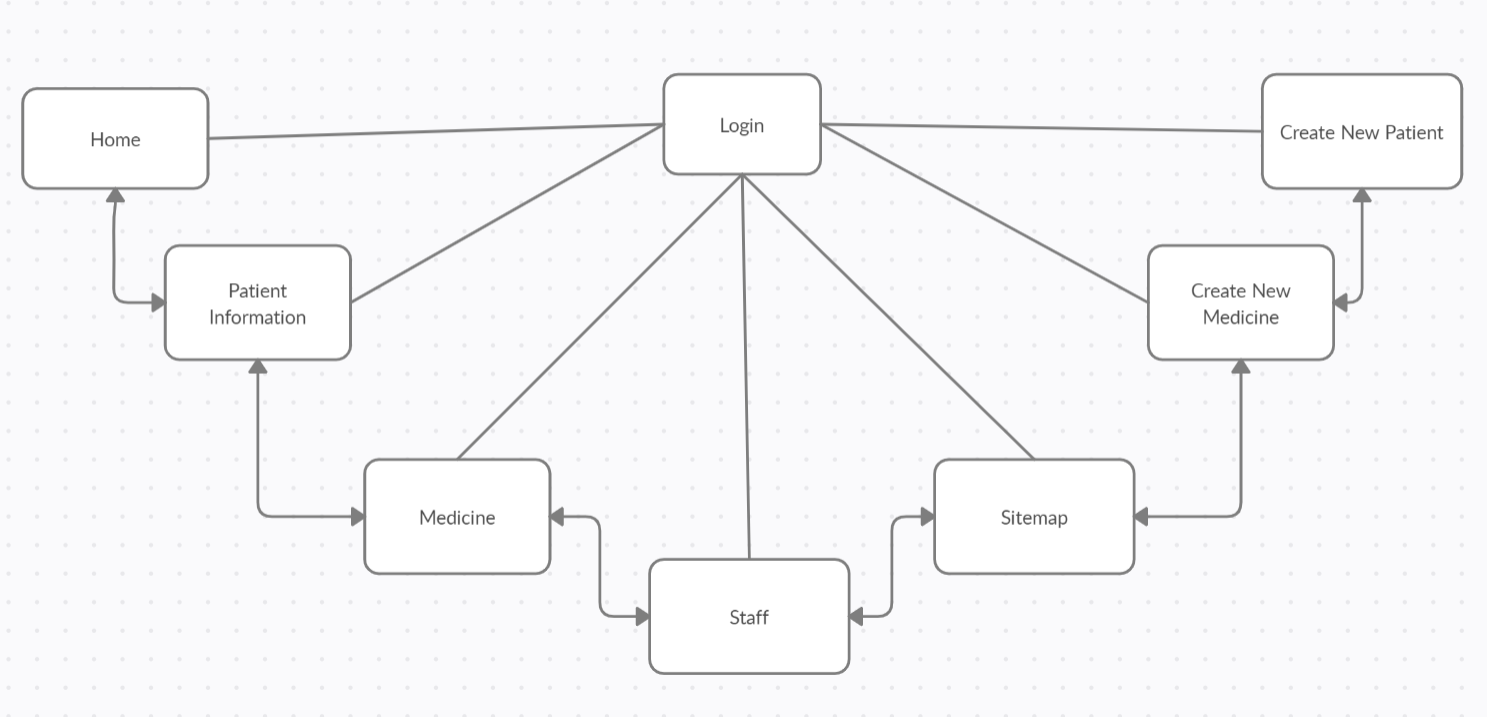
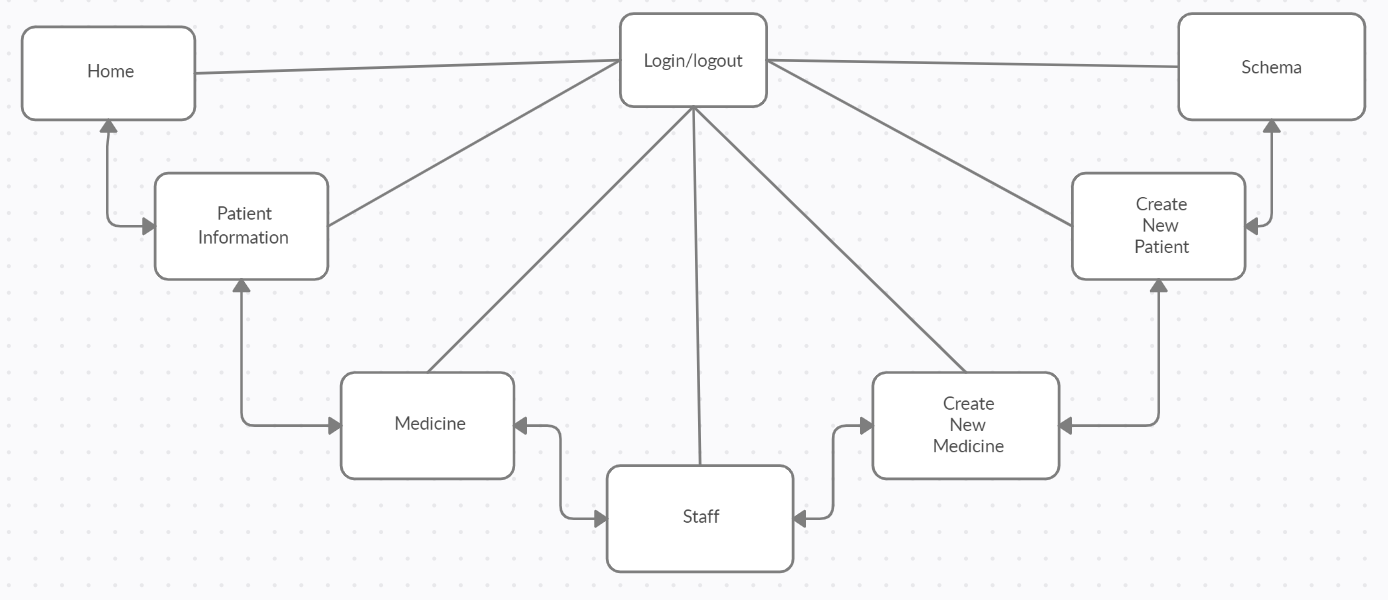
Update PHP/HTML/CSS
-Fixed overlap typos
-Added source to CSS
-Updated Schema

diff --git a/hospital/homepage.html b/hospital/homepage.html
@@ -28,7 +28,7 @@
 
     <div style="padding-left:16px">
         <h2>Sitemap</h2>
-       <center><img src="updated_sitemap_2.12.2020.PNG"></center>
+        <center><img src="updated_sitemap_2.12.2020.PNG"></center>
     </div>
 
 </body>

diff --git a/hospital/schema.html b/hospital/schema.html
@@ -21,7 +21,7 @@
 
 
     <div style="padding-left:16px">
-        <h2>Sitemap</h2>
+        <h2>Schema</h2>
        <center><img class ="sitemap" src="schema_update_3.12.2020.png"></center>
     </div>
 

diff --git a/hospital/homepage.css b/hospital/homepage.css
@@ -1,3 +1,5 @@
+/* CSS from https://www.w3schools.com/howto/howto_css_login_form.asp */
+
 body {
     margin: 0;
     font-family: Arial, Helvetica, sans-serif;

diff --git a/hospital/show_staff.php b/hospital/show_staff.php
@@ -23,7 +23,7 @@ $html = "";
 while ($row = mysqli_fetch_assoc($result)) {
     // echo "number of fields ".mysqli_num_fields($result);
     $html.="Staff ID: " . $row['Staff_ID'] . "<br>";
-    $html.="Name: " . $row['FirstName'] . " " . $row['LastName'] . "<br>";
+    $html.="Name: " . $row['FirstName'] . " " .$row['LastName'] . "<br>";
     $html.="Department ID: " . $row['Department_ID'] . "<br>";
     $html.="Title: " . $row['Credentials'] . "<br>";
     $html.="<br><br>";}
